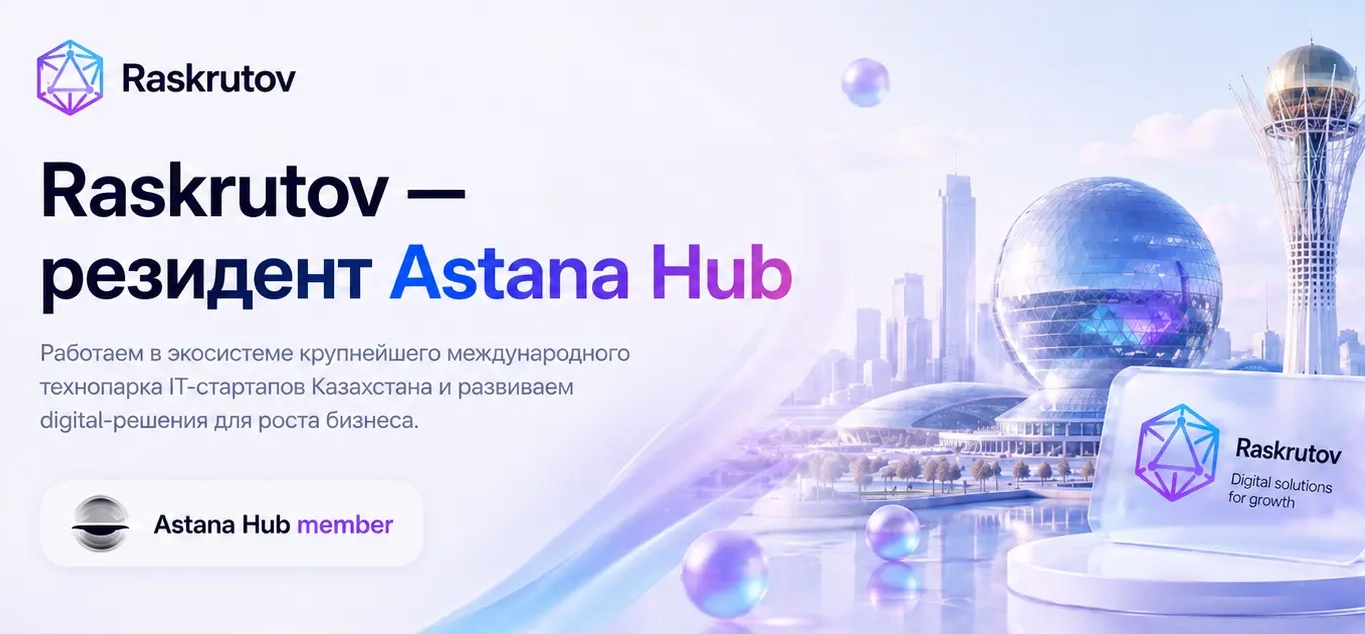
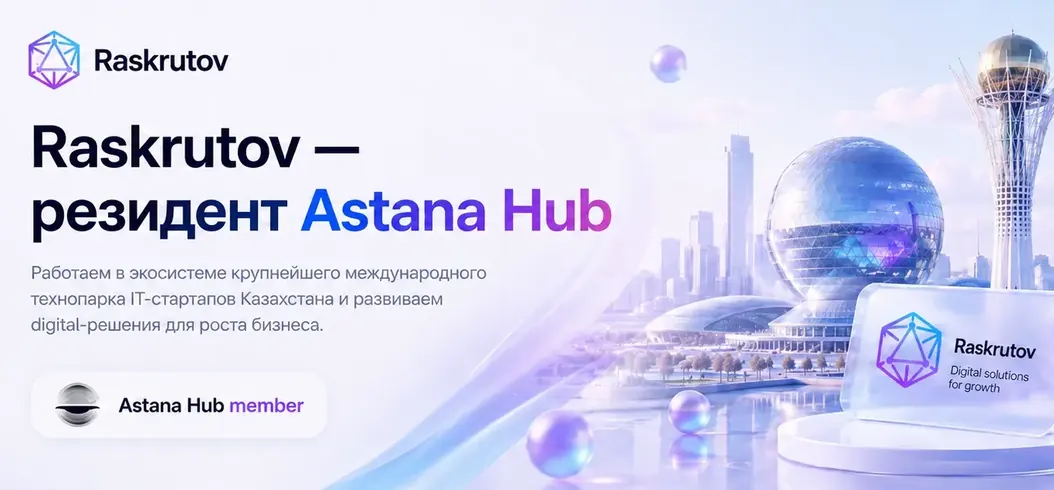
perf round 3: downscale desktop-display image variants to 2x (-251KB flagged waste)

Changed region(s): [[0.2429, 0.8265, 0.2732, 0.8571], [0.1518, 0.8265, 0.1822, 0.8571], [0.0304, 0.0612, 0.0607, 0.0918]]

diff --git a/downscale_round3.py b/downscale_round3.py
@@ -1,0 +1,41 @@
+# -*- coding: utf-8 -*-
+"""Downscale the second wave of flagged variants (desktop-display images that
+also download on mobile) to ~2x of their display width."""
+import sys
+from pathlib import Path
+from PIL import Image
+
+sys.stdout.reconfigure(encoding="utf-8", errors="replace")
+
+ROOT = Path("site_mirror/assets/m-files.cdn1.cc/lpfile")
+
+TARGETS = [
+    # displayed 527 wide on desktop
+    ("61be3ed1ac9f22c625dcd8063d66537b/-/crop/25x0x1365x634/-/resize/527", 1054),
+    # displayed 348 wide on desktop
+    ("8a9295d7d2c61d6ba474e83ff6e56aaf/-/crop/0x0x1316x929/-/resize/348", 696),
+    # displayed 439 wide on desktop
+    ("10a6848446203749a81f7e7c2ad273e9/-/crop/0x0x1600x896/-/resize/439", 878),
+]
+
+done = 0
+for key, maxw in TARGETS:
+    hits = [p for p in ROOT.rglob("*.webp") if key in str(p).replace("\\", "/")]
+    if not hits:
+        print(f"!! not found: {key}")
+        continue
+    for f in hits:
+        im = Image.open(f)
+        w, h = im.size
+        if w <= maxw:
+            print(f"== skip ({w}px): {f.name}")
+            continue
+        nh = round(h * maxw / w)
+        im2 = im.resize((maxw, nh), Image.LANCZOS)
+        old = f.stat().st_size
+        im2.save(f, "WEBP", quality=78, method=6)
+        new = f.stat().st_size
+        done += 1
+        print(f"OK {w}x{h}->{maxw}x{nh}  {old//1024}KB->{new//1024}KB  {f.name}")
+
+print("done:", done)

diff --git a/fix_green_zone3.py b/fix_green_zone3.py
@@ -1,0 +1,35 @@
+# -*- coding: utf-8 -*-
+"""Round 3: lazy-load ALL remaining eager <img> (hidden breakpoint variants
+download eagerly otherwise — PSI mobile flagged 350KB waste), plus keep hero
+div-background preload untouched (LCP element is not an <img>)."""
+import re
+import sys
+from pathlib import Path
+
+sys.stdout.reconfigure(encoding="utf-8", errors="replace")
+
+ROOT = Path("site_mirror")
+PAGES = [ROOT / "index.html"] + sorted((ROOT / "pages").glob("*.html"))
+
+IMG = re.compile(r"<img\b[^>]*>")
+
+stats = {"lazy_added": 0, "already": 0}
+for page in PAGES:
+    html = page.read_text(encoding="utf-8")
+    orig = html
+
+    def fix(m):
+        tag = m.group(0)
+        if "loading=" in tag:
+            stats["already"] += 1
+            return tag
+        stats["lazy_added"] += 1
+        if tag.endswith("/>"):
+            return tag[:-2] + ' loading="lazy" decoding="async"/>'
+        return tag[:-1] + ' loading="lazy" decoding="async">'
+
+    html = IMG.sub(fix, html)
+    if html != orig:
+        page.write_text(html, encoding="utf-8")
+
+print("stats:", stats)
